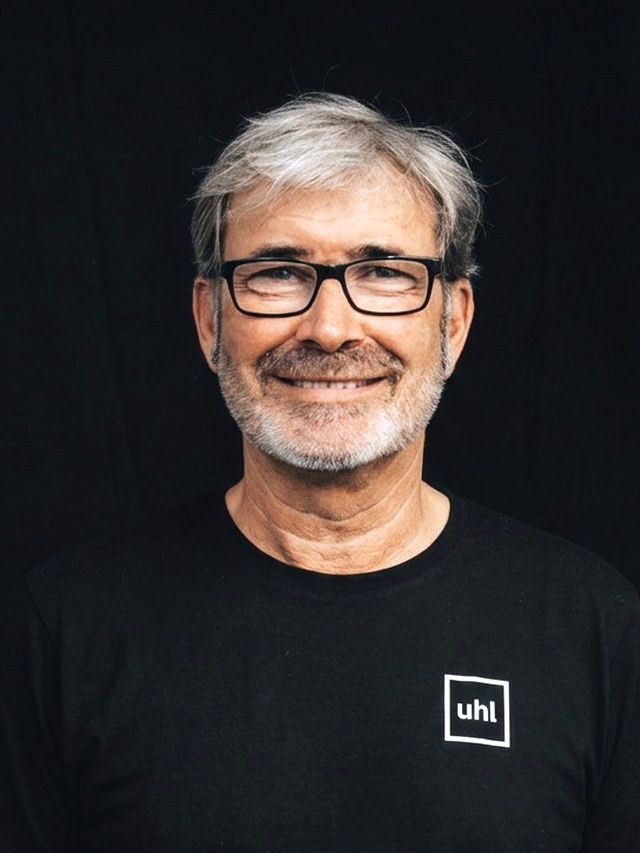
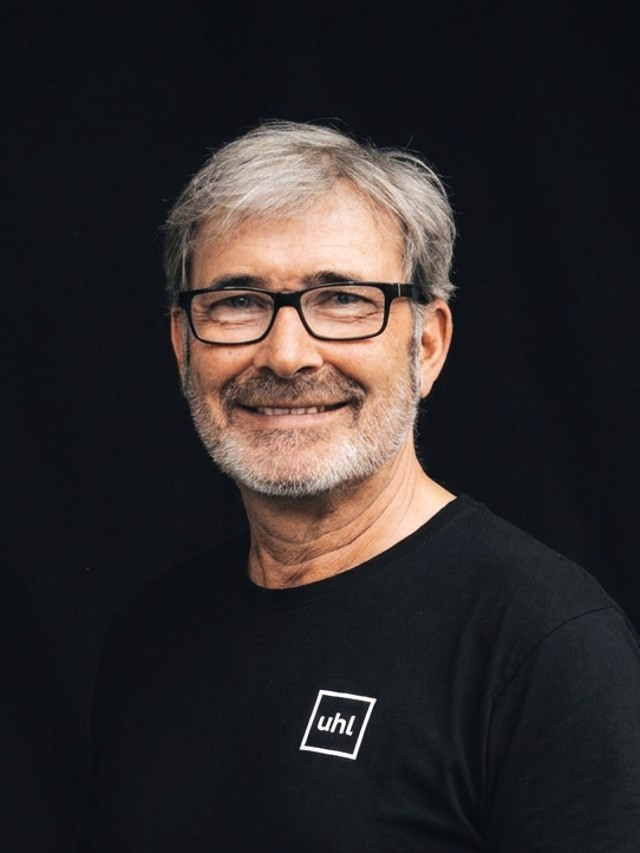
Donauries-Pitch: Kay natürlicher posiert, Titel „Do ziagt’s mi na.“ mit Subline

diff --git a/src/slides/donauries-social/slides.tsx b/src/slides/donauries-social/slides.tsx
@@ -22,8 +22,8 @@ export const TitleSlide: React.FC = () => (
     </div>
     <img src="/donauries/logo.png" alt="DONAURIES" style={{ width: 360, height: 'auto' }} />
     <div style={{ display: 'flex', flexDirection: 'column', alignItems: 'center', gap: 18 }}>
-      <div style={{ fontSize: 64, fontWeight: 700 }}>Eine Region. Überall sichtbar.</div>
-      <div style={{ fontSize: 30, letterSpacing: '0.04em', color: C.muted }}>Instagram, Facebook, TikTok, YouTube und Komoot</div>
+      <div style={{ fontSize: 64, fontWeight: 700 }}>Do ziagt’s mi na.</div>
+      <div style={{ fontSize: 30, letterSpacing: '0.04em', color: C.muted }}>Und bald auf Instagram, TikTok und Co. alle anderen auch.</div>
     </div>
   </div>
 );
